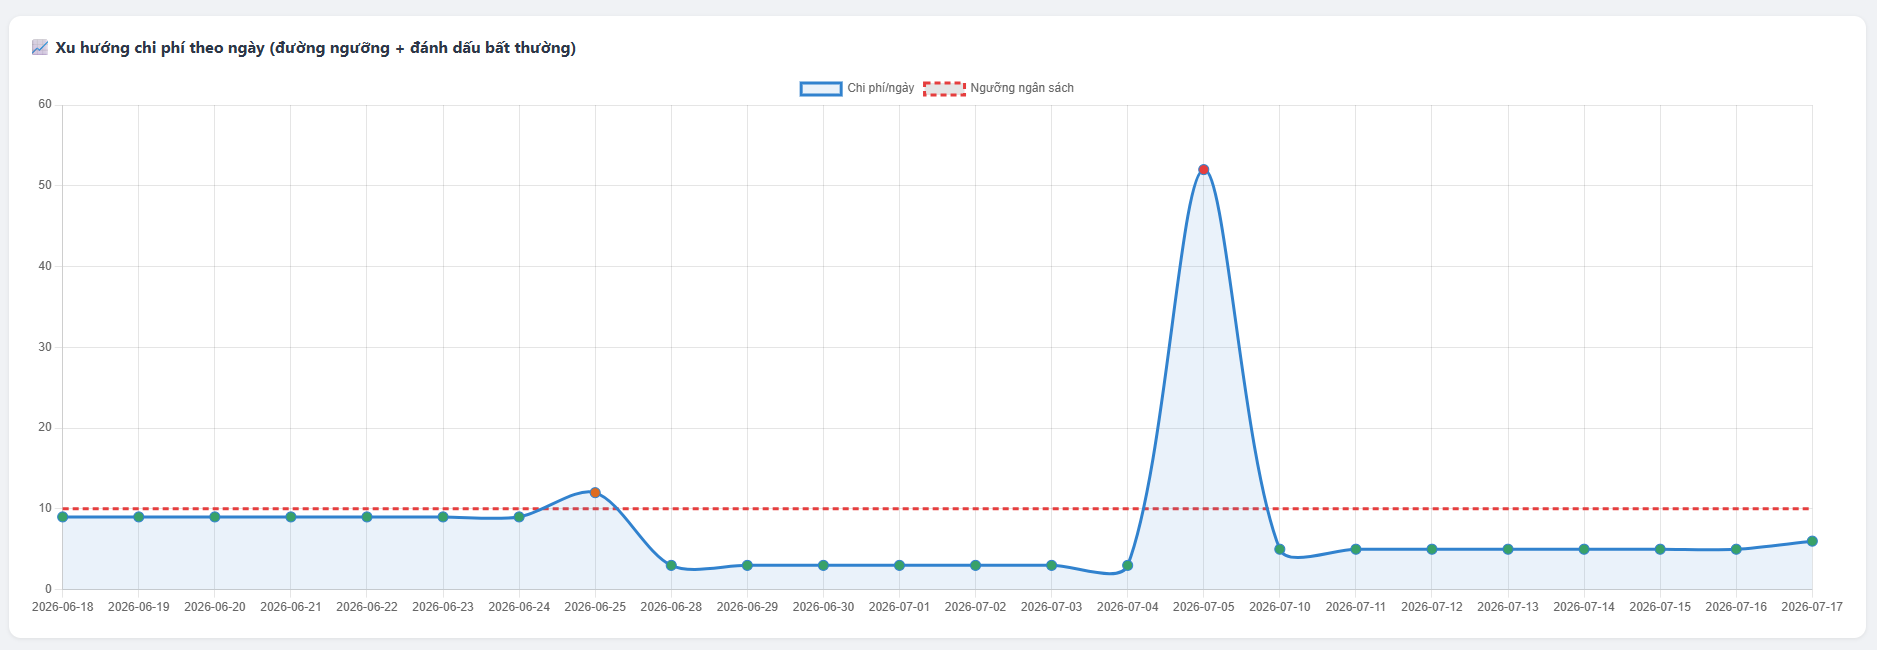
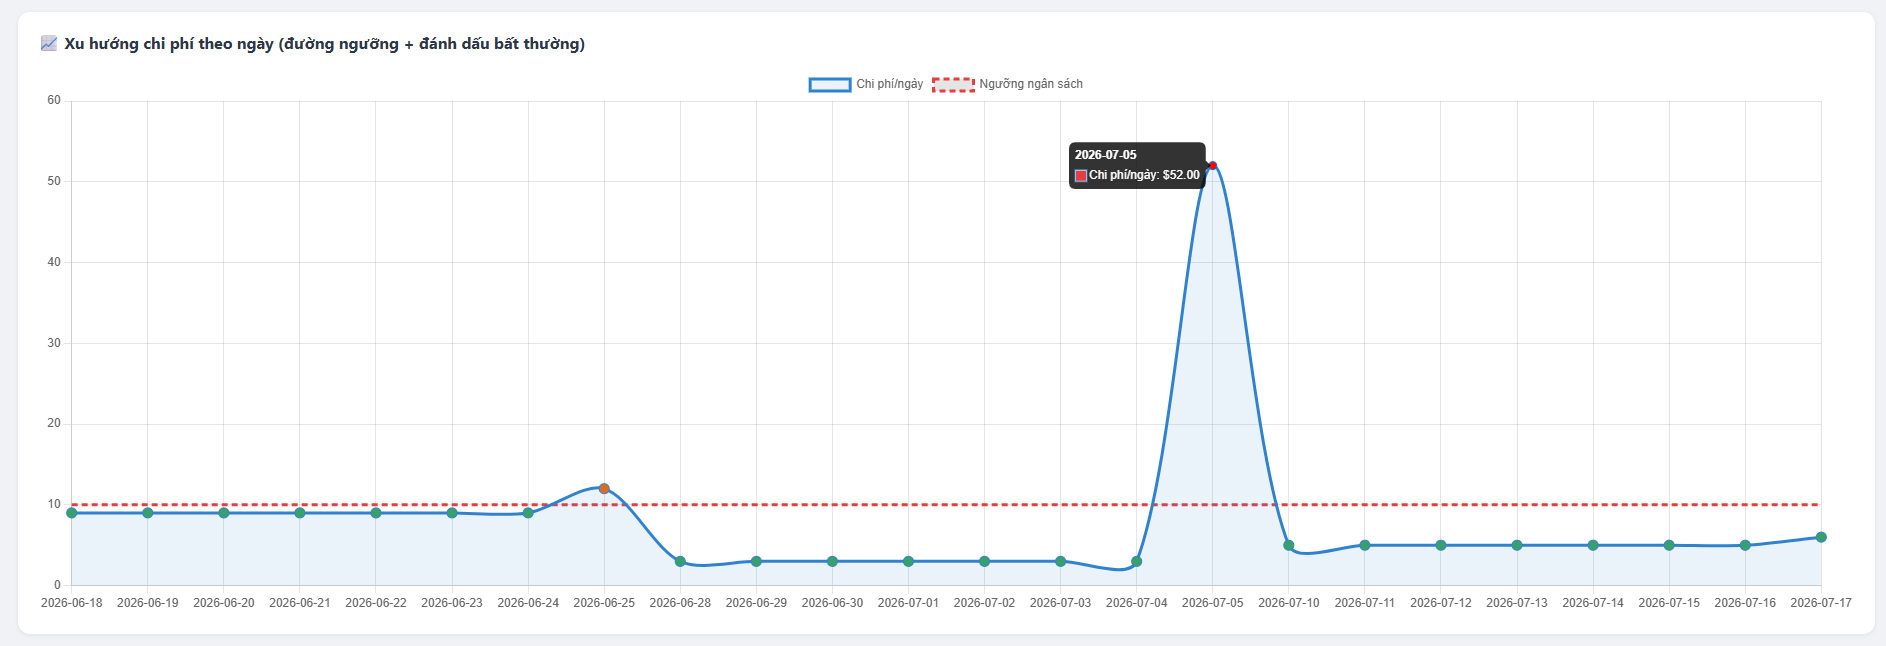
Updates: workshop

diff --git a/content/5-Workshop/5.7-Testing/_index.vi.md b/content/5-Workshop/5.7-Testing/_index.vi.md
@@ -1,0 +1,80 @@
+---
+title : "Kiểm thử hệ thống"
+date : 2024-01-01
+weight : 7
+chapter : false
+pre : " <b> 5.7 </b> "
+---
+
+#### Tổng quan
+
+Sau khi đã triển khai đầy đủ các thành phần, trong phần này chúng ta sẽ kiểm thử toàn bộ hệ thống **CloudCost Insight** từ đầu đến cuối. Mục tiêu là xác minh các luồng hoạt động đúng và phối hợp chặt chẽ với nhau.
+
+Chúng ta sẽ kiểm thử theo 4 nhóm chính:
+
+- Luồng thu thập và phân tích dữ liệu chi phí.
+- Cơ chế phát hiện bất thường và cảnh báo qua Email theo 3 mức.
+- Cơ chế xử lý lỗi bằng **Dead Letter Queue**.
+- Cơ chế giám sát bằng **CloudWatch Alarm** và **Web Dashboard**.
+
+{{ % notice %}}
+Nếu tài khoản AWS của bạn là tài khoản mới hoặc bạn mới chạy hệ thống, chưa qua 24 giờ để **Cost Explorer** ghi nhận dữ liệu chi phí thì chúng ta sẽ tiếp tục sử dụng dữ liệu mô phỏng ([Simulated Data](../5.6-Dashboard/5.6.1-Backend/)) để kiểm thử đầy đủ các trường hợp phát hiện bất thường. Khi triển khai với tài khoản có chi phí thực tế, hệ thống hoạt động tương tự với dữ liệu thật từ **Cost Explorer**.
+
+#### 1. Kiểm thử luồng thu thập dữ liệu
+
+Trước tiên, chúng ta kiểm tra **Lambda Collector** có thu thập dữ liệu và ghi vào S3 đúng hay không. Trên **AWS Console**, mở hàm Lambda Collector và chạy thử với một sự kiện rống:
+
+1. Kiểm tra **Lambda Collector**
+
+- Truy cập vào **Lambda**, chọn **cloudcost-insight-collector**:
+
+![Testing](/fcaj-workshop-threenines/images/5-Workshop/5.7-Testing/testing_1.png)
+
+- Chọn mục **Test** và chạy một sự kiện rỗng:
+
+![Testing](/fcaj-workshop-threenines/images/5-Workshop/5.7-Testing/testing_2.png)
+
+![Testing](/fcaj-workshop-threenines/images/5-Workshop/5.7-Testing/testing_3.png)
+
+- Kết quả kì vọng: 
+
+    + Trả về **statusCode: 200**.
+    + Log ghi nhận việc gọi **Cost Explorer**
+
+![Testing](/fcaj-workshop-threenines/images/5-Workshop/5.7-Testing/testing_4.png)
+
+2. Kiểm tra dữ liệu đã được ghi vào S3 theo đúng cấu trúc phân vùng theo năm/tháng/ngày:
+
+- Truy cập vào **S3** và chọn bucket của bạn:
+
+![Testing](/fcaj-workshop-threenines/images/5-Workshop/5.7-Testing/testing_5.png)
+
+- Kết quả kì vọng: Có các thư mục chứa file JSON chứa dữ liệu chi phí:
+
+![Testing](/fcaj-workshop-threenines/images/5-Workshop/5.7-Testing/testing_6.png)
+
+![Testing](/fcaj-workshop-threenines/images/5-Workshop/5.7-Testing/testing_7.png)
+
+![Testing](/fcaj-workshop-threenines/images/5-Workshop/5.7-Testing/testing_8.png)
+
+![Testing](/fcaj-workshop-threenines/images/5-Workshop/5.7-Testing/testing_9.png)
+
+![Testing](/fcaj-workshop-threenines/images/5-Workshop/5.7-Testing/testing_10.png)
+
+#### 2. Kiểm thử phát hiện chi phí bất thường theo 3 mức (INFO, WARNING, CRITICAL)
+
+Để kiểm thử ba mức cảnh báo, chúng ta chuẩn bị dữ liệu chi phí đã mô phỏng trong S3 cho từng trường hợp xảy ra. Logic phân loại dựa trên 2 tiêu chí:
+
+- Ngưỡng ngân sách.
+- Mức tăng đột biến so với trung bình lịch sử.
+
+| Mức cảnh báo | Dữ liệu | Kết quả mong đợi |
+| --- | --- | --- |
+| INFO | Chi phí thấp, không vượt ngưỡng | Không gửi email cảnh báo |
+| WARNING | Chi phí vượt ngưỡng nhưng chưa đột biến | Gửi email cảnh báo ở mức WARNING |
+| CRITICAL | Chi phí tăng đột biến so với trung bình | Gửi email cảnh báo ở mức CRITICAL |
+
+Với mỗi mức cảnh báo, chúng ta gửi sự kiện tương ứng vào SQS, sau đó theo dõi kết quả phân loại dựa trên CloudWatch Logs của Analyzer.
+
+
+

diff --git a/content/5-Workshop/5.6-Dashboard/5.6.2-Frontend/_index.md b/content/5-Workshop/5.6-Dashboard/5.6.2-Frontend/_index.md
@@ -638,7 +638,7 @@ The dashboard displays the **total cost**, **alert threshold**, **number of moni
 
 **Chart 1: Daily Cost Trend (Trend Chart):**
 
-![Dashboard](/fcaj-workshop-threenines/images/5-Workshop/5.6-Dashboard/5.6.2-Frontend/frontend_5.png)
+![Dashboard](/fcaj-workshop-threenines/images/5-Workshop/5.6-Dashboard/5.6.2-Frontend/frontend_5en.png)
 
 - The X-axis (horizontal) represents the monitored days.
 - The Y-axis (vertical) represents the daily cost ($).
@@ -648,7 +648,7 @@ The dashboard displays the **total cost**, **alert threshold**, **number of moni
 
 **Chart 2: Cost Share by Service (Service Chart):**
 
-![Dashboard](/fcaj-workshop-threenines/images/5-Workshop/5.6-Dashboard/5.6.2-Frontend/frontend_6.png)
+![Dashboard](/fcaj-workshop-threenines/images/5-Workshop/5.6-Dashboard/5.6.2-Frontend/frontend_6en.png)
 
 - Each slice of the pie chart represents the cost of an AWS service. The larger the slice, the higher the cost of that service.
 - The name of each service is displayed when you hover over or select its slice.
@@ -657,8 +657,12 @@ The dashboard displays the **total cost**, **alert threshold**, **number of moni
 
 **Chart 3: Top Cost Services (Bar Chart):**
 
-![Dashboard](/fcaj-workshop-threenines/images/5-Workshop/5.6-Dashboard/5.6.2-Frontend/frontend_7.png)
+![Dashboard](/fcaj-workshop-threenines/images/5-Workshop/5.6-Dashboard/5.6.2-Frontend/frontend_7en.png)
 
 - The chart displays the top 5 services with the highest costs.
 - The X-axis (horizontal) represents the service cost.
 - The Y-axis (vertical) represents the corresponding service names.
+
+#### Next Content
+
+- [Testing](5-Workshop/5.7-Testing/)

diff --git a/content/5-Workshop/5.6-Dashboard/5.6.2-Frontend/_index.vi.md b/content/5-Workshop/5.6-Dashboard/5.6.2-Frontend/_index.vi.md
@@ -662,3 +662,7 @@ Giao diện thể hiện được **tổng chi phí**, **ngưỡng cảnh báo**
 - Biểu đồ thể hiện top 5 các dịch vụ có chi phí cao nhất.
 - Trục X (ngang): thể hiện chi phí của dịch vụ.
 - Trục Y (dọc): thể hiện tên dịch vụ tương ứng.
+
+#### Nội dung tiếp theo
+
+- [Kiểm thử hệ thống](5-Workshop/5.7-Testing/)